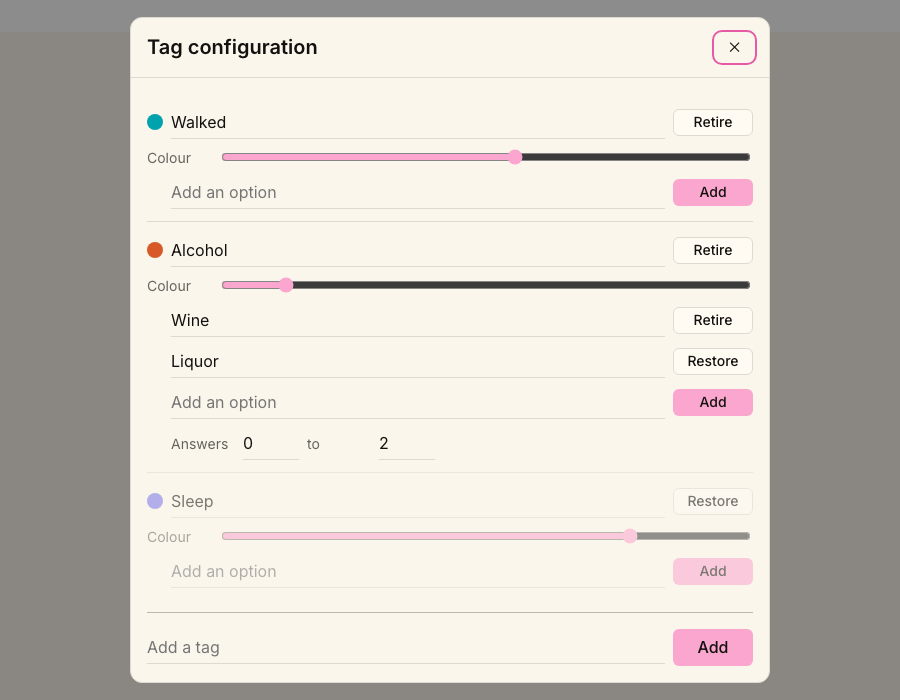
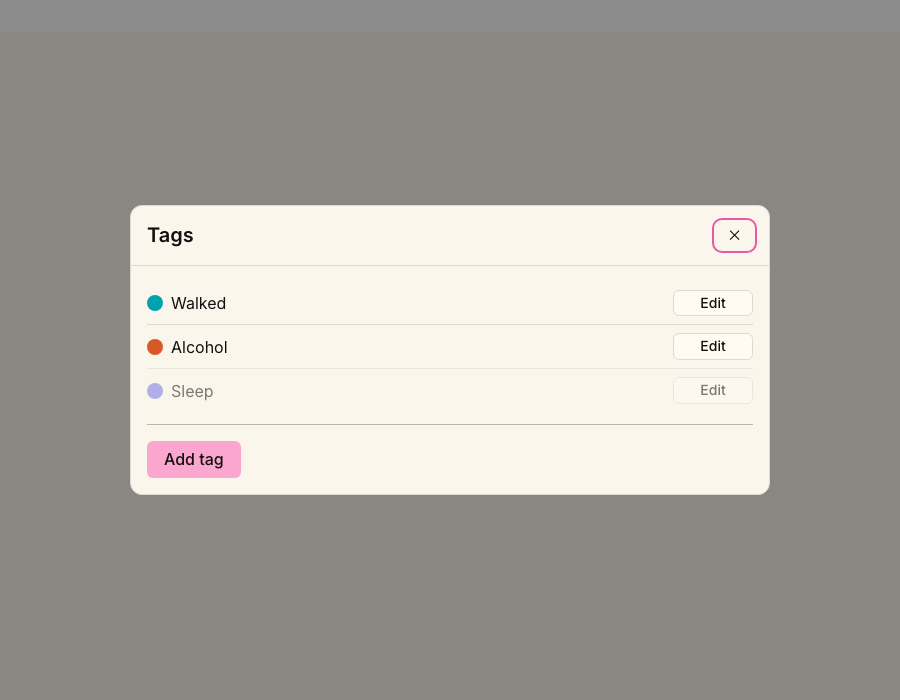
feat(tag): split tag config into a list and an edit view

diff --git a/src/tag/TagConfigMenu.tsx b/src/tag/TagConfigMenu.tsx
@@ -1,58 +1,123 @@
 import styles from './TagConfigMenu.module.scss'
 import { Button } from '#src/button/Button.js'
 import { Dialog } from '#src/dialog/Dialog.js'
+import { classNames } from '#src/string/class-names.js'
 import { TagEditor } from '#src/tag/TagEditor.js'
 import { addTag, updateTag } from '#src/tag/tag.edit.js'
-import type { Tag, TagConfig } from '#src/tag/tag.model.js'
+import type { Tag, TagConfig, TagId } from '#src/tag/tag.model.js'
 import { createSignal, For, Show, type JSX } from 'solid-js'
 
-/** The overlay for building tags. Every edit emits a whole replacement config. */
+/**
+ * Tags as a list, with one tag's settings behind an edit step. Keeping the detail out of the
+ * list is what stops the overlay becoming unreadable once there are more than a few tags.
+ */
 export function TagConfigMenu(props: TagConfigMenuProps): JSX.Element {
-  const [tagLabel, setTagLabel] = createSignal('')
+  const [editing, setEditing] = createSignal<TagId | 'new' | undefined>(props.initialEditing)
+  const [newLabel, setNewLabel] = createSignal('')
 
-  function add(): void {
-    const label = tagLabel().trim()
+  function edited(): Tag | undefined {
+    return props.config.tags.find((tag) => tag.id === editing())
+  }
+
+  function title(): string {
+    if (editing() === 'new') {
+      return 'New tag'
+    }
+
+    return edited()?.label ?? 'Tags'
+  }
+
+  function openNew(): void {
+    setNewLabel('')
+    setEditing('new')
+  }
+
+  function create(): void {
+    const label = newLabel().trim()
 
     if (label === '') {
       return
     }
 
-    props.onChange(addTag(props.config, label))
-    setTagLabel('')
+    const next = addTag(props.config, label)
+
+    props.onChange(next)
+    setEditing(next.tags.at(-1)?.id)
   }
 
   function replace(tag: Tag): void {
     props.onChange(updateTag(props.config, tag.id, () => tag))
   }
 
+  function back(): void {
+    setEditing(undefined)
+  }
+
   return (
-    <Dialog open={props.open} title="Tag configuration" onClose={props.onClose}>
-      <Show
-        when={props.config.tags.length > 0}
-        fallback={<p class={styles.empty}>No tags yet. Add your first one below.</p>}
-      >
-        <div class={styles.list}>
-          <For each={props.config.tags}>{(tag) => <TagEditor tag={tag} onChange={replace} />}</For>
+    <Dialog
+      open={props.open}
+      title={title()}
+      onClose={props.onClose}
+      onBack={editing() === undefined ? undefined : back}
+    >
+      <Show when={editing() === 'new'}>
+        <div class={styles.row}>
+          <input
+            class={styles.input}
+            aria-label="New tag label"
+            placeholder="Name this tag"
+            value={newLabel()}
+            onInput={(event) => {
+              setNewLabel(event.currentTarget.value)
+            }}
+          />
+
+          <Button class={styles.action} onClick={create}>
+            Create
+          </Button>
         </div>
       </Show>
 
-      <div class={styles.add}>
-        <input
-          class={styles.input}
-          aria-label="New tag label"
-          placeholder="Add a tag"
-          value={tagLabel()}
-          onInput={(event) => {
-            setTagLabel(event.currentTarget.value)
-          }}
-        />
+      <Show when={edited()}>{(tag) => <TagEditor tag={tag()} onChange={replace} />}</Show>
 
-        <Button class={styles.action} onClick={add}>
-          Add
-        </Button>
-      </div>
+      <Show when={editing() === undefined}>
+        <Show
+          when={props.config.tags.length > 0}
+          fallback={<p class={styles.empty}>No tags yet.</p>}
+        >
+          <ul class={styles.list}>
+            <For each={props.config.tags}>
+              {(tag) => (
+                <li class={classNames(styles.item, !tag.active && styles.retired)}>
+                  <span class={styles.swatch} style={{ 'background-color': swatch(tag.hue) }} />
+                  <span class={styles.name}>{tag.label}</span>
+
+                  <Button
+                    variant="secondary"
+                    size="sm"
+                    class={styles.action}
+                    onClick={() => {
+                      setEditing(tag.id)
+                    }}
+                  >
+                    Edit
+                  </Button>
+                </li>
+              )}
+            </For>
+          </ul>
+        </Show>
+
+        <div class={styles.add}>
+          <Button onClick={openNew}>Add tag</Button>
+        </div>
+      </Show>
     </Dialog>
   )
+}
+
+function swatch(hue: number): string {
+  return `oklch(var(--tag-lightness) var(--tag-chroma) ${String(hue)})`
 }
 
 export interface TagConfigMenuProps {
@@ -60,4 +125,6 @@ export interface TagConfigMenuProps {
   config: TagConfig
   onChange: (config: TagConfig) => void
   onClose: () => void
+  /** Opens straight into one tag's settings rather than the list. */
+  initialEditing?: TagId
 }

diff --git a/src/dialog/Dialog.tsx b/src/dialog/Dialog.tsx
@@ -1,6 +1,6 @@
 import styles from './Dialog.module.scss'
 import { Button } from '#src/button/Button.js'
-import { createEffect, createSignal, type JSX } from 'solid-js'
+import { createEffect, createSignal, Show, type JSX } from 'solid-js'
 
 /**
  * A modal built on the native dialog element, which supplies the backdrop, escape to close
@@ -30,6 +30,10 @@ export function Dialog(props: DialogProps): JSX.Element {
     props.onClose()
   }
 
+  function back(): void {
+    props.onBack?.()
+  }
+
   return (
     <dialog
       ref={(dialog) => {
@@ -39,6 +43,12 @@ export function Dialog(props: DialogProps): JSX.Element {
       onClose={close}
     >
       <div class={styles.header}>
+        <Show when={props.onBack !== undefined}>
+          <Button variant="ghost" size="sm" aria-label="Back" onClick={back}>
+            ‹
+          </Button>
+        </Show>
+
         <h2 class={styles.title}>{props.title}</h2>
 
         <Button variant="ghost" size="sm" aria-label="Close" onClick={close}>
@@ -55,5 +65,7 @@ export interface DialogProps {
   open: boolean
   title: string
   onClose: () => void
+  /** When given, the header offers a way back to whatever opened this view. */
+  onBack?: () => void
   children?: JSX.Element
 }

diff --git a/src/tag/TagConfigMenu.module.scss b/src/tag/TagConfigMenu.module.scss
@@ -1,15 +1,42 @@
-/* A hairline between tags, rather than a card around each one. */
-.list > * + * {
-  border-top: 1px solid var(--color-border);
+.list {
+  display: flex;
+  flex-direction: column;
+  margin: 0;
+  padding: 0;
+  list-style: none;
 }
 
-.add {
+.item {
   display: flex;
   align-items: center;
   gap: var(--space-2);
-  padding-top: var(--space-4);
-  border-top: 1px solid var(--color-border-strong);
-  margin-top: var(--space-3);
+  padding-block: var(--space-2);
+}
+
+.item + .item {
+  border-top: 1px solid var(--color-border);
+}
+
+.retired {
+  opacity: 0.55;
+}
+
+.swatch {
+  width: 1rem;
+  height: 1rem;
+  flex: none;
+  border-radius: var(--radius-full);
+}
+
+.name {
+  flex: 1;
+  min-width: 0;
+}
+
+.row {
+  display: flex;
+  align-items: center;
+  gap: var(--space-2);
 }
 
 .input {
@@ -28,12 +55,19 @@
   border-bottom-color: var(--color-border-strong);
 }
 
-.empty {
-  margin: 0;
-  color: var(--color-text-muted);
-}
-
 .action {
   flex: none;
   min-width: 5rem;
+}
+
+.add {
+  display: flex;
+  padding-top: var(--space-4);
+  border-top: 1px solid var(--color-border-strong);
+  margin-top: var(--space-3);
+}
+
+.empty {
+  margin: 0;
+  color: var(--color-text-muted);
 }

diff --git a/src/preview/TagConfigMenuPreview.tsx b/src/preview/TagConfigMenuPreview.tsx
@@ -1,5 +1,5 @@
 import { TagConfigMenu } from '#src/tag/TagConfigMenu.js'
-import type { TagConfig } from '#src/tag/tag.model.js'
+import type { TagConfig, TagId } from '#src/tag/tag.model.js'
 import { createSignal, type JSX } from 'solid-js'
 
 /** Holds the config state TagConfigMenu needs, so the preview page passes plain props. */
@@ -15,9 +15,18 @@ export function TagConfigMenuPreview(props: TagConfigMenuPreviewProps): JSX.Elem
     setOpen(false)
   }
 
-  return <TagConfigMenu open={open()} config={config()} onChange={change} onClose={close} />
+  return (
+    <TagConfigMenu
+      open={open()}
+      config={config()}
+      initialEditing={props.initialEditing}
+      onChange={change}
+      onClose={close}
+    />
+  )
 }
 
 export interface TagConfigMenuPreviewProps {
   initialConfig: TagConfig
+  initialEditing?: TagId
 }

diff --git a/src/preview/preview-routes.const.ts b/src/preview/preview-routes.const.ts
@@ -8,5 +8,6 @@ export const previewRouteList: PreviewRoute[] = [
   { pattern: '/_preview/day-tag-menu', entrypoint: './day-tag-menu.astro' },
   { pattern: '/_preview/day-tag-menu-empty', entrypoint: './day-tag-menu-empty.astro' },
   { pattern: '/_preview/tag-config-menu', entrypoint: './tag-config-menu.astro' },
+  { pattern: '/_preview/tag-config-menu-edit', entrypoint: './tag-config-menu-edit.astro' },
   { pattern: '/_preview/tag-config-menu-empty', entrypoint: './tag-config-menu-empty.astro' },
 ]
